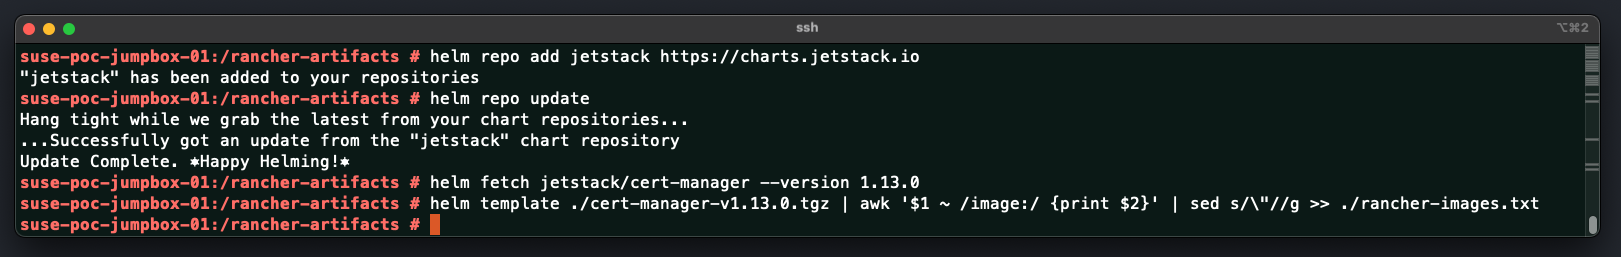
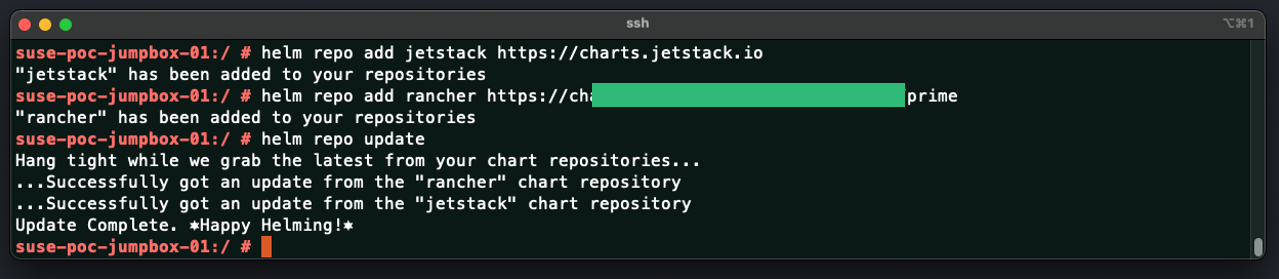
FC

Changed region(s): [[0.0, 0.0311, 1.0, 0.9339], [0.9758, 0.6226, 1.0, 0.6848], [0.9758, 0.5292, 1.0, 0.5603]]

diff --git a/1-Install/Rancher/2-Install-Rancher-Air-Gapped/README.md b/1-Install/Rancher/2-Install-Rancher-Air-Gapped/README.md
@@ -105,6 +105,14 @@ To operate properly, `SUSE Rancher` requires a number of ports to be open on `SU
 
 As this deployment is based on the Air-Gapped method (no internet access to the node(s)), we would need to download several files and images to a JumpBox server which have internet access. The JumpBox server could be of any operating system. The JumpBox will require at least 350GB of disk space or more available. The JumpBox must have docker CLI tool (or any other alternatives) installed to be able to communicate, pull and push images to the image registries(s). The JumpBox also required Helm CLI toll to be installed.
 
+JumpBox Requirements:
+- CPU: recommended min of 8 CPU - this is not a must, however, this will speed up the process
+- Memory: recommended min of 32GB RAM - this is not a must, however, this will speed up the process
+- Disk: 500 GB - this is a must, otherwise the JumpBox will not have enough space to store the images and create the required Tarball
+- Tools:
+  - Docker installed and enabled
+  - Helm installed and enabled
+
 > Ensure A Local Image Registry Is In Place With Sufficient Storage Capacity
 
 As this deployment is based on the Air-Gapped method (no internet access to the node(s)), we would need to download several files and images to the JumpBox server (which have internet access). Once this is completed, we will be uploading the images to a local Image Registry. Thus, a local image registry is required. There is no specific Image Registry required, any OCI Image Registry tool will be enough. The local Images Registry will require at least 350GB of disk space or more available.
@@ -150,7 +158,9 @@ You can download these files from the `SUSE Rancher` official GitHub. For the re
 
 > Images
 
-To deploy `SUSE Rancher`, several images is required to be downloaded and pushed to the local images registry. The above-mentioned file and scripts in the files sub-section will help to pull and push the required images. `SUSE Rancher` required Cert-Manager to be deployed to handel the certificate generation of the `SUSE manager` solution. However, the above-mentioned file and script do not include the required images of the Cert-Manager, BUT, the provided script can still help in pulling and pushing the images, you only need to update the rancher-images.txt with the required Cert-Manager images name.
+To deploy `SUSE Rancher`, several images is required to be downloaded and pushed to the local images registry. The above-mentioned file and scripts in the files sub-section will help to pull and push the required images. 
+
+`SUSE Rancher` required Cert-Manager to be deployed to handel the certificate generation of the `SUSE manager` solution. We will also need to download the required images and push it to the local image registry
 
 To do so, we will use the Helm Cli tool to perform this action. Please follow the below steps:
 - fetch the cert-manager helm chart using Helm Cli tool - This can only be done after you have added the jetstack Helm repository and updated it.
@@ -159,73 +169,131 @@ helm fetch jetstack/cert-manager --version <required-version-if-needed>
 ```
 - Get all required images of this Helm chart using Helm template command and export them to the rancher-images.txt
 ```bash
-helm template ./cert-manager-<version>.tgz | awk '$1 ~ /image:/ {print $2}' | sed s/\"//g >> ./rancher-images.txt
+helm template ./cert-manager-<version>.tgz | awk '$1 ~ /image:/ {print $2}' | sed s/\"//g >> ./cert-manager-images.txt
 ```
+
+Once we have the images name, we will use docker to pull and push the images
 
 ---
 
+==========================================================================
+
 ### Install SUSE Rancher In An Air-Gapped Environment - Step-By-Step Guide
+
+==========================================================================
 
 ---
 
 In this guide, we will be deploying an `SUSE Rancher` on a single node RKE2 cluster. For production environment, it is required to deploy `SUSE Rancher os a highly-available cluster with minimum of 3 nods. For a high-available RKE2 cluster, please refer to [this link](https://docs.rke2.io/install/ha)
 
 1. Ensure you have performed and satisfied all prerequisites mentioned [here](#prerequisites-for-installing-suse-rancher)
-2. SSH to the JumpBox (Or use your laptop), create a folder called `rancher-artifacts` and download the required files in it. In this guide we will be deploying `SUSE Rancher` version 2.8.5. To download the required file for this release, please refer to this [link](https://github.com/rancher/rancher/releases/tag/v2.8.5). The files to be downloaded are rancher-images.txt, rancher-load-images.sh, and rancher-save-images.sh.
+2. On your local image registry, create a repository called rancher (repository name must be rancher). In this example i have created my repository on harbor image registry and mad it public to avoid the authentication requirement.
 
 <p align="center">
-    <img src="Images/step-2-1.png">
+    <img src="Images/step-2.png">
 </p>
 
-```bash
-mkdir rancher-artifacts
-cd rancher-artifacts
-wget https://github.com/rancher/rancher/releases/download/v2.8.5/rancher-images.txt
-wget https://github.com/rancher/rancher/releases/download/v2.8.5/rancher-load-images.sh
-wget https://github.com/rancher/rancher/releases/download/v2.8.5/rancher-save-images.sh
-```
-
-<p align="center">
-    <img src="Images/step-2-2.png">
-</p>
-
-ensure you have all required files downloaded properly
-
-<p align="center">
-    <img src="Images/step-2-3.png">
-</p>
-
-3. Retrieve the list of cert-manager images and add them to the rancher-images.txt file. In this example we will be using cert-manager version 1.13.0
+3. SSH to the JumpBox (Or use your laptop) and add the required Helm repositories. Please note, the below command will add the `SUSE Rancher` community edition Helm repository. If you are deploying the `SUSE Rancher Prime`, which is the enterprise edition of `SUSE Rancher`, a different Helm repository URL is require. To get this URL, please refer to your SUSE representative.
 
 ```bash
 helm repo add jetstack https://charts.jetstack.io
+helm repo add rancher https://releases.rancher.com/server-charts/stable
 helm repo update
-helm fetch jetstack/cert-manager --version 1.13.0
-helm template ./cert-manager-v1.13.0.tgz | awk '$1 ~ /image:/ {print $2}' | sed s/\"//g >> ./rancher-images.txt
 ```
 
 <p align="center">
     <img src="Images/step-3.png">
 </p>
 
-4. Sort and unique the images list to remove any overlap between the sources
+4. Create a folder called `rancher-artifacts` then download in it the cert-manager Helm chart using Helm Fetch command, then retrieve all required images of the Helm cart using the helm template command and dump it in to a file called cert-manager-images.txt. With the Helm fetch command, you can specify a specific version, in this example i am using version 1.13.0
 
 ```bash
-sort -u rancher-images.txt -o rancher-images.txt
+mkdir rancher-artifacts
+cd rancher-artifacts/
+helm fetch jetstack/cert-manager --version 1.13.0
+helm template ./cert-manager-v1.13.0.tgz | awk '$1 ~ /image:/ {print $2}' | sed s/\"//g >> ./cert-manager-images.txt
 ```
 
-<p align="center">
-    <img src="Images/step-4.png">
-</p>
-
-5. Ensure that cert-manager images name are added to the rancher-images.txt along with the rest of the `SUSE Rancher` images
+5. Using Docker, pull all the images listed in the cert-manager-images.txt
 ```bash
-cat rancher-images.txt
+cat cert-manager-images.txt
+docker pull quay.io/jetstack/cert-manager-cainjector:v1.13.0
+docker pull quay.io/jetstack/cert-manager-controller:v1.13.0
+docker pull quay.io/jetstack/cert-manager-webhook:v1.13.0
+docker pull quay.io/jetstack/cert-manager-ctl:v1.13.0
 ```
 
 <p align="center">
     <img src="Images/step-5.png">
 </p>
+
+6. Using Docker, Login to your local image registry, tag the pulled images with your local image registry URL and the rancher repository (also remove the first 2 parts of the images URLs), then push them to the local image registry
+
+```bash
+docker login suse-harbor-poc.suse-rancher-demo.com
+docker tag quay.io/jetstack/cert-manager-cainjector:v1.13.0 suse-harbor-poc.suse-rancher-demo.com/rancher/cert-manager-cainjector:v1.13.0
+docker tag quay.io/jetstack/cert-manager-controller:v1.13.0 suse-harbor-poc.suse-rancher-demo.com/rancher/cert-manager-controller:v1.13.0
+docker tag quay.io/jetstack/cert-manager-webhook:v1.13.0 suse-harbor-poc.suse-rancher-demo.com/rancher/cert-manager-webhook:v1.13.0
+docker tag quay.io/jetstack/cert-manager-ctl:v1.13.0 suse-harbor-poc.suse-rancher-demo.com/rancher/cert-manager-ctl:v1.13.0
+docker push suse-harbor-poc.suse-rancher-demo.com/rancher/cert-manager-cainjector:v1.13.0
+docker push suse-harbor-poc.suse-rancher-demo.com/rancher/cert-manager-controller:v1.13.0
+docker push suse-harbor-poc.suse-rancher-demo.com/rancher/cert-manager-webhook:v1.13.0
+docker push suse-harbor-poc.suse-rancher-demo.com/rancher/cert-manager-ctl:v1.13.0
+```
+
+<p align="center">
+    <img src="Images/step-6-1.png">
+</p>
+
+Check that the images was pushed ot the local image registry properly
+
+<p align="center">
+    <img src="Images/step-6-2.png">
+</p>
+
+7. Download all required `SUSE Rancher` files related to the required release. In this guide we will be deploying `SUSE Rancher` version 2.8.5. To download the required file for this release, please refer to this [link](https://github.com/rancher/rancher/releases/tag/v2.8.5). The files to be downloaded are rancher-images.txt, rancher-load-images.sh, and rancher-save-images.sh.
+
+<p align="center">
+    <img src="Images/step-7-1.png">
+</p>
+
+```bash
+cd /rancher-artifacts
+wget https://github.com/rancher/rancher/releases/download/v2.8.5/rancher-images.txt
+wget https://github.com/rancher/rancher/releases/download/v2.8.5/rancher-load-images.sh
+wget https://github.com/rancher/rancher/releases/download/v2.8.5/rancher-save-images.sh
+```
+
+<p align="center">
+    <img src="Images/step-7-2.png">
+</p>
+
+8. Save the images to a Tarball using the rancher-save-images.sh script. 
+- Please Note: 
+  - This process may take more than 1 hour to complete depending on the hardware.
+  - The downloaded images may require more than 100GB of storage.
+  - The compressed tarball will be 20-40GB in size.
+
+```bash
+# Make Script Executable
+chmod +x rancher-save-images.sh
+# Run Script
+./rancher-save-images.sh -l rancher-images.txt -i rancher-images.tar.gz
+```
+
+Please Note: the above commands will download the Rancher Community edition from the public GitHub registry, if you are deploying `SUSE Rancher Prime` which is the enterprise edition, you ned to add to the rancher-save-image.sh command the -s option with the official `SUSE Rancher prime` registry (`./rancher-save-images.sh -l rancher-images.txt -i rancher-images.tar.gz -s <suse-rancher-prime-registry.com>`). to get the official Rancher Prime registry, please reach out to you `SUSE` representative.
+
+```bash
+# Make Script Executable
+chmod +x rancher-save-images.sh
+# Run Script
+./rancher-save-images.sh -l rancher-images.txt -i rancher-images.tar.gz -s <suse-rancher-prime-registry.com>
+```
+
+<p align="center">
+    <img src="Images/step-8.png">
+</p>
+
 
 6. Save the images to a Tarball using the rancher-save-images.sh script. 
 - Please Note: 
@@ -241,31 +309,12 @@ chmod +x rancher-save-images.sh
 ```
 
 <p align="center">
-    <img src="Images/step-6-1.png">
+    <img src="Images/step-6.png">
 </p>
 
-Please Note: the above commands will download the Rancher Community edition from the public GitHub registry, if you are deploying Rancher Prime edition, you ned to add to the rancher-save-image.sh the -s with the official Rancher prime registry. to get the official Rancher Prime registry, please reach out to you SUSE representative. Also, there should be an edit to be done on the script if you are using the `SUSE Rancher Prime` official registry. If you remember, we added cert-manager images which should be downloaded from quay registry (or at the time it is). If you added the -s along with the `SUSE Rancher Prime` official registry, the script will amend this to the image name and it will not be able to download the required images then. To workaround it, we will edit the script so that if the image name include (quay), then it will leave it with no amendment else it will then amend the `SUSE Rancher Prime` official registry
+Please Note: the above commands will download the Rancher Community edition from the public GitHub registry, if you are deploying `SUSE Rancher Prime` which is the enterprise edition, you ned to add to the rancher-save-image.sh the -s with the official `SUSE Rancher prime` registry. to get the official Rancher Prime registry, please reach out to you `SUSE` representative. Also, as you have noticed in step number 3, there was a note to skip this step related to adding the cert-manager images to the rancher-images.txt file. this is because if you added the -s with the official `SUSE Rancher prime` registry, the script will have issues with the cert-manager images. Thus we will be doing it on a later stage without the script.
 
-Edit the rancher-save-images.sh file by adding the below starting from line 57 and then comment out line 62
-```bash
-    if [[ "${i}" == *"quay"* ]]; then
-        i="${i}"
-    else
-        i="${source_registry}${i}"
-    fi
-```
-
-<p align="center">
-    <img src="Images/step-6-2.png">
-</p>
-
-The script should look like this after editing
-
-<p align="center">
-    <img src="Images/step-6-3.png">
-</p>
-
-Now you can run the same command (using the -s and the `SUSE Rancher Prime` official registry) to pull all required images and add them to the tarball
+To use the above commands using the the official `SUSE Rancher prime` registry, use the below commands
 
 ```bash
 # Make Script Executable
@@ -274,8 +323,28 @@ chmod +x rancher-save-images.sh
 ./rancher-save-images.sh -l rancher-images.txt -i rancher-images.tar.gz -s <prime-official-reg.com>
 ```
 
+7. In your local private registry, create a repository to push all images to. In this example, i am using Harbor Image Registry and creating a repository called rancher-arigap and setting it as a public to avoid using authentication. Please note the repository has to be named rancher.
+
 <p align="center">
-    <img src="Images/step-6-4.png">
+    <img src="Images/step-7.png">
+</p>
+
+8. Login to your local private registry and then use the rancher-load-images.sh scrip to push the images to the image registry
+- Please Note:
+  - This process may take more than 1 hour to complete depending on hardware.
+  - The downloaded images may require more than 100GB of storage on the private registry machine.
+  
+```bash
+# Login to local private registry
+docker login suse-harbor-poc.suse-rancher-demo.com
+# Make Script Executable
+chmod +x rancher-load-images.sh
+# Run Script
+./rancher-load-images.sh -l rancher-images.txt -i rancher-images.tar.gz -r suse-harbor-poc.suse-rancher-demo.com
+```
+
+<p align="center">
+    <img src="Images/step-8.png">
 </p>
 
 

diff --git a/1-Install/RKE2/2-Install-RKE2-Air-Gapped/README.md b/1-Install/RKE2/2-Install-RKE2-Air-Gapped/README.md
@@ -194,7 +194,7 @@ sudo tar -zxvf helm-v3.15.4-linux-amd64.tar.gz
 
 5. create a folder called `rke2-artifacts` and copy the downloaded files to all nodes in the cluster (master & worker). In this example we are using scp to copy the files from the JumpBpx to the Nodes and all machines are hosted on Google Cloud. Thus using Google Cloud SSH Key in the scp command
 ```bash
-sudo scp -i google_compute_engine rke2-artifacts/* root@34.76.81.211:/rke2-artifacts/
+sudo scp -i google_compute_engine -r rke2-artifacts/* root@34.76.81.211:/rke2-artifacts/
 ```
 
 <p align="center">
@@ -212,7 +212,6 @@ sudo scp -i google_compute_engine rke2-artifacts/* root@34.76.81.211:/rke2-artif
 sudo mkdir -p /etc/rancher/rke2/
 sudo cat << EOF >> /etc/rancher/rke2/config.yaml
 write-kubeconfig-mode: "0644"
-cni: "calico"
 token: “Suse!sTh3BestSince@1992”
 EOF
 ```
